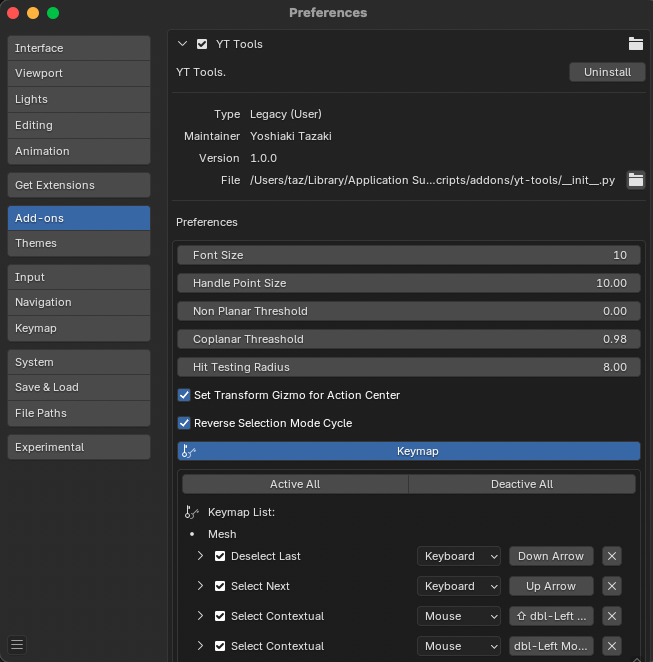
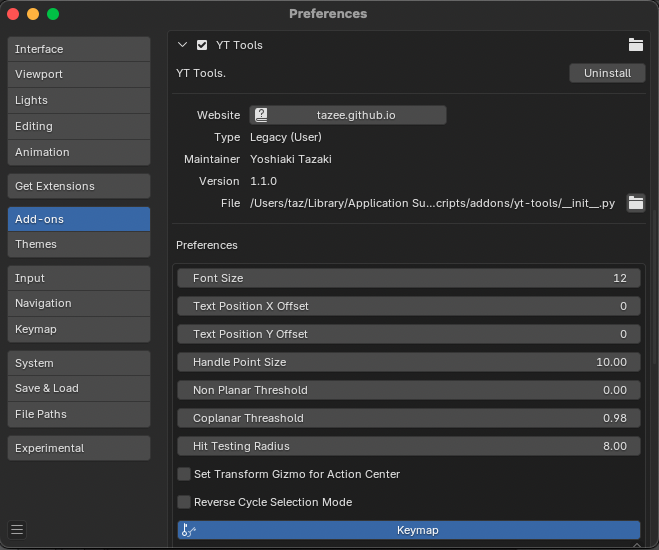
Update for v1.2

diff --git a/yt-tools/index.md b/yt-tools/index.md
@@ -139,6 +139,7 @@ If UVs is checked in the Adjust Last Operation panel, UV mapping coordinates wil
 * Merge By Distance: 
 Merges geometry around selected vertices, merging selected mesh vertices or point cloud points within the specified distance.
 
+## Weight Editing
 ### <ins>Linear Weight</ins><br>
 Linear Weight is an operator that sets the weight used for linear falloff. The weight set along the line displayed as a diamond is set to the currently selected Vertex Group. If there is no active Vertex Group, a new Vertex Group is created and the weight value is added to it. Weight is the weight value to be set, and Replace replaces the existing weight value with the set weight. Additive and Subtract add or subtract a new value to the existing weight value. Linear Start and Linear End are the coordinate values of the start and end points of the linear falloff. The falloff weight is larger the closer to the start point, and the smaller the movement is as it is attenuated as it is closer to the end point. These positions are set to fit the bounding box of the mesh element currently selected when the operator is started. You can redraw this line by dragging the 3D view screen while holding down the Shift key. Also, dragging the LMB while holding down the Ctrl key will constrain the drag direction to horizontal or vertical.<br>
 <b>Shape</b> specifies the falloff attenuation calculation method. The default is Linear, which causes linear attenuation.<br>
@@ -155,9 +156,29 @@ Enabling <b>Reverse</b> causes attenuation from Linear End to Linear Start.<br>
 * LMB + Alt drag: No changes are applied until the mouse button is released. Useful for quickly aligning handle operations on heavy meshes.<br>
 * Return key: Confirms changes and resets changes.<br>
 * ESC key, Space key, RMB click: Exit the tool.<br>
+<div align="left">
+<img src="images/LinearWeight.gif">
+</div>
+
+### <ins>Radial Weight</ins><br>
+<b>Radial Weight</b> is an operator that sets the weight used for the radial falloff. It sets the weight of vertices within the spherical area to the currently selected Vertex Group. If there is no active Vertex Group, a new Vertex Group will be created and the weight value will be added to it. <b>Weight</b> is the weight value to set, and <b>Replace</b> overwrites the existing weight value with the set weight. <b>Additive</b> and <b>Subtract</b> add or subtract new values to the existing weight value. <b>Radial Center</b> and <b>Radial Side</b> are the center point and radius of the radial falloff sphere. The falloff weight is smaller the closer to the center point, and larger the movement is the farther away from the center. The weight is zero outside the sphere. These positions are set to fit the bounding box of the currently selected mesh element when the operator is launched. You can redraw the sphere by holding down the Shift key and dragging in the 3D view screen. Additionally, holding down the Ctrl key while dragging the LMB constrains the drag direction to horizontal or vertical. Holding down the Alt key while hauling delays the application of the weight value until you release the Alt key, allowing for faster mouse operation. <br>
+<b>Shape</b> specifies how the falloff is calculated. The default is Linear, which applies a linear falloff. <br>
+Enable <b>Invert</b> to invert the weight falloff value (w' = 1.0 - w). <br>
+<b>Symmetry</b> transforms selected elements symmetrically along the specified axis of symmetry. <br>
+<b>Show Weight</b> enables Vertex Group Weights in the Mesh Edit Mode Overlays panel and displays the weights on the mesh using a gradient color. <br>
+* LMB drag: Drag with the mouse to change the value of the item set by Hauling. <br>
+* LMB + Shift drag: Redraws a new falloff shape. <br>
+* LMB + Drag Side Handle: Resize the falloff on each axis independently. <br>
+* LMB + Shift + Drag Side Handle: Resize the falloff equally on all axes. <br>
+* LMB + Drag Center Handle: Move the entire falloff shape. <br>
+* LMB + Control + Drag Side Handle: Move the entire falloff shape. <br>
+* LMB + Alt Drag: No changes are made until you release the mouse button. This is useful for quickly aligning handle operations on heavy meshes. <br>
+* ESC, Spacebar, or RMB click: Exit the tool. <br>
+<div align="left">
+<img src="images/RadialWeight.gif">
+</div>
 
 ## Transform
-
 ### <ins>Linear Transform</ins><br>
 Linear Transform is a transform operator with a linear falloff. The degree of transformation falls off along the line segment displayed as a diamond. Move Offset, Scale, and Angle specify the relative amount of movement, scale, and rotation to transform, respectively. The center of rotation and scale refers to the currently set Transform Pivot Point. Transform Orientation supports only Normal. The rest conform to the Global direction. Hold down LMB and select Hauling or Tracking in the 3D view.<br>
 <b>Shape</b> specifies how the falloff is calculated. The default is Linear, which means the falloff is linear.<br>
@@ -216,6 +237,17 @@ Enabling <b>Show Axis</b> displays axis handles at the Start and End positions o
 <b>Reverse</b> reverses the direction of the spine vector. <br>
 <b>Auto Fit</b> moves the spine handle to fit the selected mesh element in the specified direction. <b>Orient:</b> specifies the direction in which the spine handle fits. X, Y, and Z move the handle along each of the major axes. <b>Oriented Bounding Box</b> calculates an oriented bounding box and fits the handle along that axis. Enabling <b>Spine Only</b> does not move the spine's center position, but only changes the length of the spine vector to fit the calculated bounding box. <br>
 
+### <ins>Soft Drag</ins><br>
+<b>Soft Drag</b> is a transformation tool that smoothly moves the coordinate values of vertices within the radius specified by Size, centered on the point you click on the screen. <b>Size</b> is the radius of the falloff circle on the screen, which you can change interactively by holding down the Shift key and dragging the LMB. Clicking and dragging the LMB at the desired location will move vertices within the falloff circle. <br>
+<b>Occlusion Test</b> tests whether the target vertex is hidden behind other polygons; hidden vertices will not be moved. <br>
+<b>Symmetry</b> transforms selected elements symmetrically along a specified axis of symmetry. <br>
+* LMB + Shift drag: Changes the size of the falloff circle. <br>
+* LMB + Alt drag: No changes are made until you release the mouse button. This is useful for quickly aligning handle operations on large meshes. <br>
+* ESC, Spacebar, or RMB click: Exit the tool. <br>
+<div align="left">
+<img src="images/SoftDrag.gif">
+</div>
+
 ### <ins>Set Vertex Positions</ins><br>
 <b>Set Vertex Positions</b> sets the coordinate values of the selected vertices to the specified values. <b>Axis</b> specifies the component of the coordinate value to be set; only the coordinate components of the enabled axes are updated. <b>Position</b> specifies the coordinate value to be set; the coordinate value of the active vertex is set as the default. If there is no active vertex, the center value of the selected vertex coordinates is set. <b>Space</b> specifies whether the coordinate values are set in local mesh coordinates or global object coordinates. <b>Mode</b> specifies whether the specified Position value replaces the existing vertex value (SET) or is added (ADD). <br>
 <div align="left">
@@ -254,7 +286,7 @@ The Dimension tool calculates a bounding box that contains the selected elements
 </div>
 
 ## Action Center
-Action Center sets Blender's Transform Pivot Point and Transform Orientation to behave similarly to Modo's Action Center. Action Center can be set from the Action Center tab in the Sidebar. The last Action Center set is highlighted in the SideBar. Turning off a highlighted Action Center sets the default Transform Pivot Point and Transform Orientation.
+Action Center sets Blender's Transform Pivot Point and Transform Orientation to behave similarly to Modo's Action Center. Action Center can be set from the Action Center tab in the Sidebar. The last Action Center set is highlighted in the SideBar. Turning off a highlighted Action Center sets the default Transform Pivot Point and Transform Orientation. If you want to specify the Pivot Point and Orientation separately, use the Pivot Point and Orientation toggle buttons. If the toggle button is off, the Pivot Point or Orientation will not be set.
 ### Automatic<br>
 Automatic moves the 3D Cursor position to the selection position and sets the Pivot Point to Cursor and Orientation to Global.
 ### Selection<br>
@@ -304,7 +336,8 @@ Sets the origin position (0,0,0) to Origin.
 
 ## Workplane
 The workplane function moves the selected element to the center of the view in Edit mode and temporarily sets the normal vector of the selection to the Z-axis direction of the view, making modeling in the planar view easier. This function sets the calculated transform to convert the selection to the center of the planar view based on the selected element to an empty object created with the name "_Workplane", and parent the mesh object to be edited to this "_Workplane" object. Pressing Unset will delete this "_Workplane" object and return the parented object to its original state. This allows you to temporarily edit the mesh by setting the plane on which the mesh element you want to edit is located to the Top view.<br>
-In addition, when you set the workplane in Object mode, a transform matrix that returns the transform of the currently selected object to the origin is set to the "_Workplane" object, and all mesh objects are parented to "_Workplane". This allows you to temporarily operate the active object at the center of the world coordinates.
+In addition, when you set the workplane in Object mode, a transform matrix that returns the transform of the currently selected object to the origin is set to the "_Workplane" object, and all mesh objects are parented to "_Workplane". This allows you to temporarily operate the active object at the center of the world coordinates.<br>
+<b>Set Transform Orientations</b> sets the construction plane rotation matrix to a named custom Transform Orientation. This is useful if you want to manipulate transformations in the perspective view rather than the planar view.
 <div align="left">
 <img src="images/Workplane.gif"/>
 </div>
@@ -445,15 +478,20 @@ Reverses the order of Edit Mode switching by the space key.
 
 
 ### Mesh Editting
-
 | Name | Operator |
 |---------|------------------|
 | Loop Slice | mesh.yt_loopslice |
 | Polygon Slice | mesh.yt_polyslice |
 | Edge Slice | mesh.yt_edgeslice |
 | Merge | mesh.yt_merge_verts |
-| Linear Weight | mesh.yt_weight_linear |
 | Add Loop | mesh.yt_addloop |
+
+
+### Weight Editting
+| Name | Operator |
+|---------|------------------|
+| Linear Weight | mesh.yt_weight_linear |
+| Radial Weight | mesh.yt_weight_radial |
 
 
 ### Deform
@@ -462,8 +500,17 @@ Reverses the order of Edit Mode switching by the space key.
 | Linear Transform | mesh.yt_transform_linear |
 | Radial Transform | mesh.yt_transform_radial |
 | Bend Transform | mesh.yt_transform_bend |
+| Soft Drag | mesh.yt_transform_softdrag |
 | Set Vertex Positions | mesh.yt_vert_position_set |
 | Center Vertex Positions | mesh.yt_vert_position_center |
+
+
+### WorkPlane
+| Name | Operator |
+|---------|------------------|
+| Set Workplane | view3d.yt_workplane_set |
+| Unset Workplane | view3d.yt_workplane_unset |
+| Set Transform Orientations | view3d.yt_workplane_to_orientations |
 
 
 ### Viewport Display
@@ -473,7 +520,3 @@ Reverses the order of Edit Mode switching by the space key.
 | Set Attributes | mesh.yt_viewport_display |
 | Display Info | mesh.yt_viewport_text |
 | Dimension | mesh.yt_dimension |
-<<<<<<< Updated upstream
-
-=======
->>>>>>> Stashed changes

diff --git a/yt-tools/release_1_2.md b/yt-tools/release_1_2.md
@@ -1,0 +1,34 @@
+---
+# Feel free to add content and custom Front Matter to this file.
+# To modify the layout, see https://jekyllrb.com/docs/themes/#overriding-theme-defaults
+
+layout: default
+permalink: /yt-tools/release_1_1.html
+---
+# YT-Tools for Blender v1.2 Release Note
+
+## ✨ New Features Overview
+
+### 🔹 Radial Weight
+<b>Radial Weight</b> is an operator that sets the weight used for the radial falloff. It sets the weight of vertices within the spherical area to the currently selected Vertex Group. If there is no active Vertex Group, a new Vertex Group will be created and the weight value will be added to it. <b>Weight</b> is the weight value to set, and <b>Replace</b> overwrites the existing weight value with the set weight. <b>Additive</b> and <b>Subtract</b> add or subtract new values to the existing weight value. <b>Radial Center</b> and <b>Radial Side</b> are the center point and radius of the radial falloff sphere. The falloff weight is smaller the closer to the center point, and larger the movement is the farther away from the center. The weight is zero outside the sphere. These positions are set to fit the bounding box of the currently selected mesh element when the operator is launched. You can redraw the sphere by holding down the Shift key and dragging in the 3D view screen. Additionally, holding down the Ctrl key while dragging the LMB constrains the drag direction to horizontal or vertical. Holding down the Alt key while hauling delays the application of the weight value until you release the Alt key, allowing for faster mouse operation. <br>
+<div align="left">
+<img src="images/RadialWeight.gif">
+</div>
+
+### 🔹 Soft Drag
+<b>Soft Drag</b> is a transformation tool that smoothly moves the coordinate values of vertices within the radius specified by Size, centered on the point you click on the screen. <b>Size</b> is the radius of the falloff circle on the screen, which you can change interactively by holding down the Shift key and dragging the LMB. Clicking and dragging the LMB at the desired location will move vertices within the falloff circle. <br>
+<div align="left">
+<img src="images/SoftDrag.gif">
+</div>
+
+### 🔹 Workplane Update
+<b>Set Transform Orientations</b> sets the construction plane rotation matrix to a named custom Transform Orientation. This is useful if you want to manipulate transformations in the perspective view rather than the planar view.
+<div align="left">
+<img src="images/SetTransformOrientations.gif">
+</div>
+
+### 🔹 Action Center Update
+If you want to specify the Pivot Point and Orientation separately, use the Pivot Point and Orientation toggle buttons. If the toggle button is off, the Pivot Point or Orientation will not be set.
+<div align="left">
+<img src="images/ActionCenterSeparately.png">
+</div>

diff --git a/index.md b/index.md
@@ -16,7 +16,8 @@ Hello I'm Taz, a software engineer specializing in modeling tools for 3D compute
 - <a href="https://tazee.booth.pm/">BOOTHオンラインストア</a>
 - <a href="https://forms.gle/3XkJnZyQFghUkScw8">Feedback Form</a>
 - Release Note :<br>
-    <a href="/yt-tools/release_1_1.html">v1.1</a>
+    <a href="/yt-tools/release_1_1.html">v1.1</a><br>
+    <a href="/yt-tools/release_1_2.html">v1.2</a>
 
 <b>Modo Open Source Plug-ins : </b><br>
 - <a href="{{ site.githuburl }}/">https://github.com/tazee</a>
